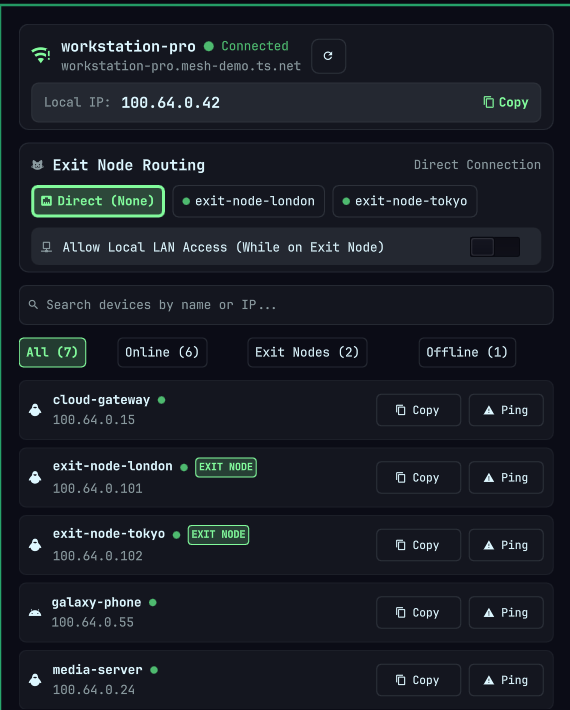
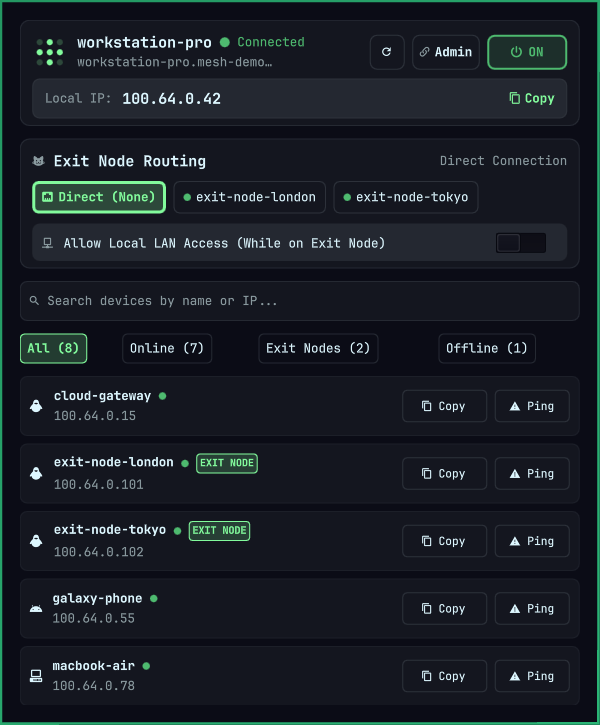
fix(ui): resolve hero card clipping and update preview

diff --git a/Panel.qml b/Panel.qml
@@ -299,7 +299,7 @@ Panel {
     bar: root.bar
     open: root.opened
     focusTarget: keyCatcher
-    contentWidth: panel.fittedContentWidth(Style.space(460))
+    contentWidth: panel.fittedContentWidth(Style.space(480))
     contentHeight: panel.fittedContentHeight(menuCol.implicitHeight + Style.space(24), Style.space(580))
 
     PanelKeyCatcher {
@@ -384,150 +384,149 @@ Panel {
                     font.pixelSize: Style.font.caption
                     color: root.dim
                     elide: Text.ElideRight
-                    Layout.maximumWidth: Style.space(220)
+                    Layout.maximumWidth: Style.space(160)
                   }
                 }
 
                 // Spacer pushing action buttons to the far right of the card
                 Item { Layout.fillWidth: true }
 
-                // Refresh Button
-                Rectangle {
-                  implicitWidth: Style.space(28)
-                  implicitHeight: Style.space(28)
-                  radius: 6
-                  color: refreshArea.containsMouse ? root.subtleBg : "transparent"
-                  border.color: refreshArea.containsMouse ? root.accent : root.borderCol
-                  border.width: 1
+                RowLayout {
+                  spacing: Style.space(6)
 
-                  Text {
-                    anchors.centerIn: parent
-                    text: root.glyphRefresh
-                    font.family: root.fontFamily
-                    font.pixelSize: Style.font.caption
-                    color: refreshArea.containsMouse ? root.accent : root.foreground
-                  }
-
-                  MouseArea {
-                    id: refreshArea
-                    anchors.fill: parent
-                    hoverEnabled: true
-                    cursorShape: Qt.PointingHandCursor
-                    onClicked: root.runHelper(["sync"])
-                  }
-                }
-
-                // Admin Console Web Link Chip
-                Rectangle {
-                  id: heroAdminChip
-                  implicitWidth: heroAdminContent.implicitWidth + Style.space(16)
-                  implicitHeight: Style.space(28)
-                  radius: 6
-                  color: heroAdminArea.containsMouse ? root.subtleBg : "transparent"
-                  border.color: heroAdminArea.containsMouse ? root.accent : root.borderCol
-                  border.width: 1
-
-                  RowLayout {
-                    id: heroAdminContent
-                    anchors.centerIn: parent
-                    spacing: Style.space(5)
+                  // Refresh Button
+                  Rectangle {
+                    implicitWidth: Style.space(28)
+                    implicitHeight: Style.space(28)
+                    radius: 6
+                    color: refreshArea.containsMouse ? root.subtleBg : "transparent"
+                    border.color: refreshArea.containsMouse ? root.accent : root.borderCol
+                    border.width: 1
 
                     Text {
-                      text: root.glyphExternal
+                      anchors.centerIn: parent
+                      text: root.glyphRefresh
                       font.family: root.fontFamily
                       font.pixelSize: Style.font.caption
-                      color: heroAdminArea.containsMouse ? root.accent : root.dim
+                      color: refreshArea.containsMouse ? root.accent : root.foreground
                     }
 
-                    Text {
-                      text: "Admin"
-                      textFormat: Text.PlainText
-                      font.family: root.fontFamily
-                      font.pixelSize: Style.font.caption
-                      font.bold: true
-                      color: heroAdminArea.containsMouse ? root.accent : root.foreground
+                    MouseArea {
+                      id: refreshArea
+                      anchors.fill: parent
+                      hoverEnabled: true
+                      cursorShape: Qt.PointingHandCursor
+                      onClicked: root.runHelper(["sync"])
                     }
                   }
 
-                  MouseArea {
-                    id: heroAdminArea
-                    anchors.fill: parent
-                    hoverEnabled: true
-                    cursorShape: Qt.PointingHandCursor
-                    onClicked: Qt.openUrlExternally("https://login.tailscale.com/admin/machines")
-                  }
-                }
+                  // Admin Console Web Link Chip
+                  Rectangle {
+                    id: heroAdminChip
+                    implicitWidth: heroAdminContent.implicitWidth + Style.space(12)
+                    implicitHeight: Style.space(28)
+                    radius: 6
+                    color: heroAdminArea.containsMouse ? root.subtleBg : "transparent"
+                    border.color: heroAdminArea.containsMouse ? root.accent : root.borderCol
+                    border.width: 1
 
-                // Distinct Power Toggle Pill Button
-                Rectangle {
-                  id: heroPowerBtn
-                  implicitWidth: Style.space(84)
-                  implicitHeight: Style.space(28)
-                  radius: 6
-                  color: {
-                    if (heroPowerArea.containsMouse) {
+                    RowLayout {
+                      id: heroAdminContent
+                      anchors.centerIn: parent
+                      spacing: Style.space(4)
+
+                      Text {
+                        text: root.glyphExternal
+                        font.family: root.fontFamily
+                        font.pixelSize: Style.font.caption
+                        color: heroAdminArea.containsMouse ? root.accent : root.dim
+                      }
+
+                      Text {
+                        text: "Admin"
+                        textFormat: Text.PlainText
+                        font.family: root.fontFamily
+                        font.pixelSize: Style.font.caption
+                        font.bold: true
+                        color: heroAdminArea.containsMouse ? root.accent : root.foreground
+                      }
+                    }
+
+                    MouseArea {
+                      id: heroAdminArea
+                      anchors.fill: parent
+                      hoverEnabled: true
+                      cursorShape: Qt.PointingHandCursor
+                      onClicked: Qt.openUrlExternally("https://login.tailscale.com/admin/machines")
+                    }
+                  }
+
+                  // Distinct Power Toggle Pill Button
+                  Rectangle {
+                    id: heroPowerBtn
+                    implicitWidth: Style.space(64)
+                    implicitHeight: Style.space(28)
+                    radius: 6
+                    color: {
+                      if (heroPowerArea.containsMouse) {
+                        return root.connected
+                          ? Qt.rgba(root.urgent.r, root.urgent.g, root.urgent.b, 0.22)
+                          : Qt.rgba(root.successColor.r, root.successColor.g, root.successColor.b, 0.22)
+                      }
                       return root.connected
-                        ? Qt.rgba(root.urgent.r, root.urgent.g, root.urgent.b, 0.22)
-                        : Qt.rgba(root.successColor.r, root.successColor.g, root.successColor.b, 0.22)
+                        ? Qt.rgba(root.successColor.r, root.successColor.g, root.successColor.b, 0.15)
+                        : Qt.rgba(root.urgent.r, root.urgent.g, root.urgent.b, 0.15)
                     }
-                    return root.connected
-                      ? Qt.rgba(root.successColor.r, root.successColor.g, root.successColor.b, 0.15)
-                      : Qt.rgba(root.urgent.r, root.urgent.g, root.urgent.b, 0.15)
-                  }
-                  border.color: {
-                    if (heroPowerArea.containsMouse) {
-                      return root.connected ? root.urgent : root.successColor
+                    border.color: {
+                      if (heroPowerArea.containsMouse) {
+                        return root.connected ? root.urgent : root.successColor
+                      }
+                      return root.connected ? root.successColor : root.urgent
                     }
-                    return root.connected ? root.successColor : root.urgent
-                  }
-                  border.width: 1.5
+                    border.width: 1.5
 
-                  RowLayout {
-                    anchors.centerIn: parent
-                    spacing: Style.space(5)
+                    RowLayout {
+                      anchors.centerIn: parent
+                      spacing: Style.space(5)
 
-                    Text {
-                      text: "\uf011"
-                      font.family: root.fontFamily
-                      font.pixelSize: Style.font.caption
-                      color: {
-                        if (heroPowerArea.containsMouse) {
-                          return root.connected ? root.urgent : root.successColor
+                      Text {
+                        text: "\uf011"
+                        font.family: root.fontFamily
+                        font.pixelSize: Style.font.caption
+                        color: {
+                          if (heroPowerArea.containsMouse) {
+                            return root.connected ? root.urgent : root.successColor
+                          }
+                          return root.connected ? root.successColor : root.urgent
                         }
-                        return root.connected ? root.successColor : root.urgent
+                      }
+
+                      Text {
+                        text: root.connected ? "ON" : "OFF"
+                        textFormat: Text.PlainText
+                        font.family: root.fontFamily
+                        font.pixelSize: Style.font.caption
+                        font.bold: true
+                        color: {
+                          if (heroPowerArea.containsMouse) {
+                            return root.connected ? root.urgent : root.successColor
+                          }
+                          return root.connected ? root.successColor : root.urgent
+                        }
                       }
                     }
 
-                    Text {
-                      text: {
-                        if (heroPowerArea.containsMouse) {
-                          return root.connected ? "Turn Off" : "Turn On"
+                    MouseArea {
+                      id: heroPowerArea
+                      anchors.fill: parent
+                      hoverEnabled: true
+                      cursorShape: Qt.PointingHandCursor
+                      onClicked: {
+                        if (root.connected) {
+                          root.runHelper(["disconnect"])
+                        } else {
+                          root.runHelper(["connect"])
                         }
-                        return root.connected ? "ON" : "OFF"
-                      }
-                      textFormat: Text.PlainText
-                      font.family: root.fontFamily
-                      font.pixelSize: Style.font.caption
-                      font.bold: true
-                      color: {
-                        if (heroPowerArea.containsMouse) {
-                          return root.connected ? root.urgent : root.successColor
-                        }
-                        return root.connected ? root.successColor : root.urgent
-                      }
-                    }
-                  }
-
-                  MouseArea {
-                    id: heroPowerArea
-                    anchors.fill: parent
-                    hoverEnabled: true
-                    cursorShape: Qt.PointingHandCursor
-                    onClicked: {
-                      if (root.connected) {
-                        root.runHelper(["disconnect"])
-                      } else {
-                        root.runHelper(["connect"])
                       }
                     }
                   }
